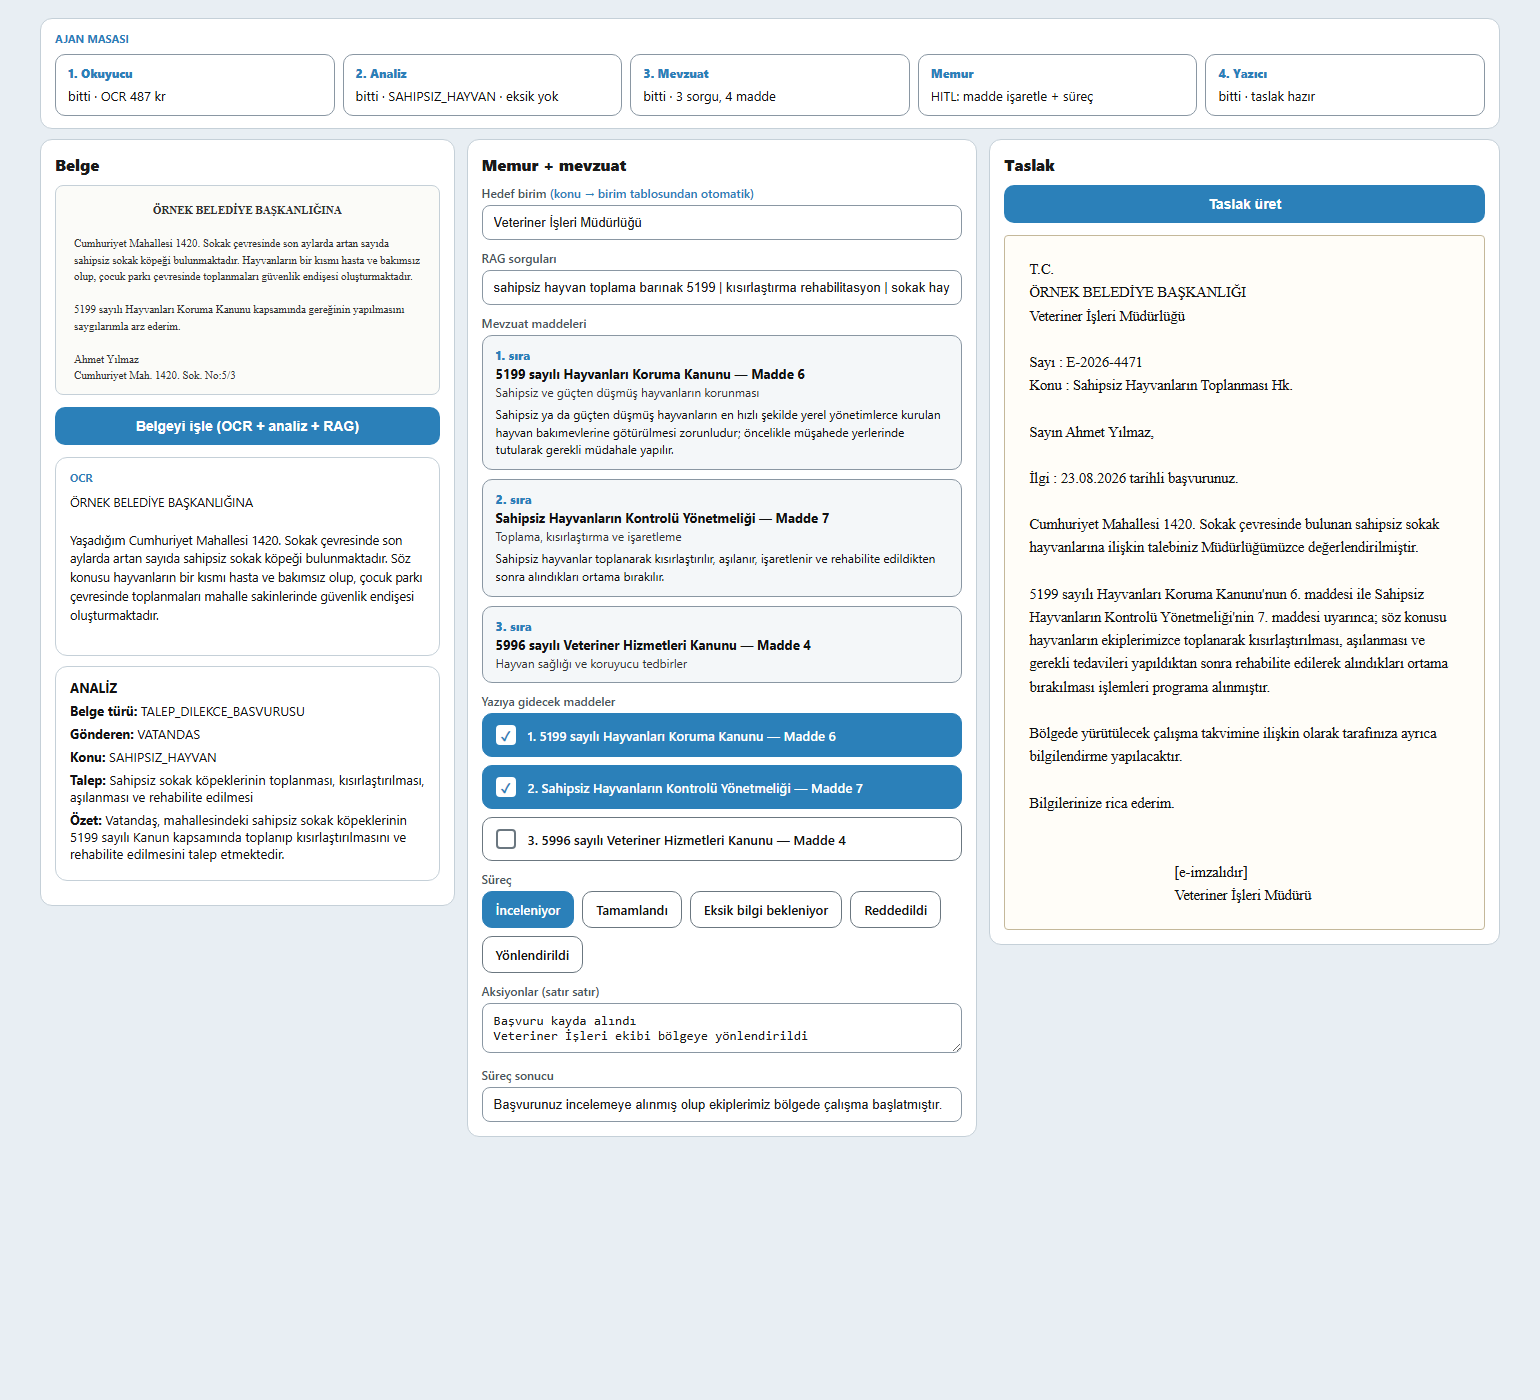
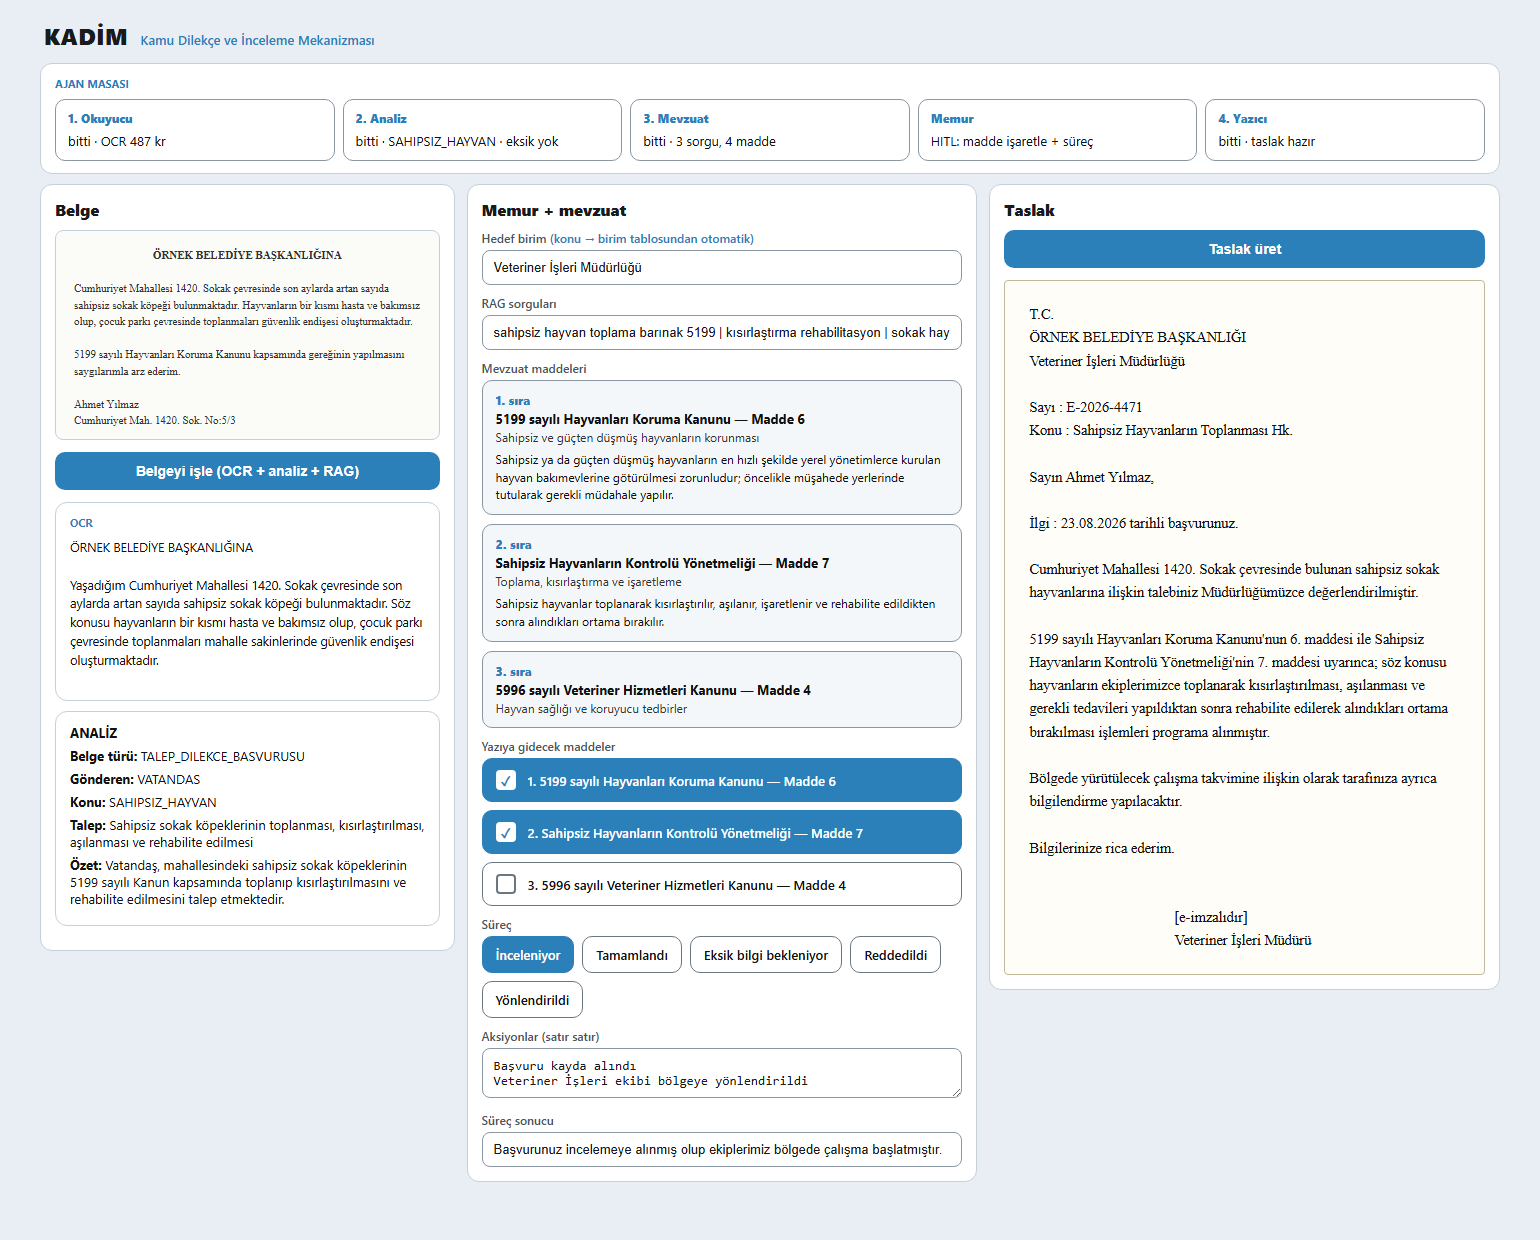
Arayüz başlığı ve ekran görüntüsü

Changed region(s): [[0.0312, 0.0, 0.9662, 0.95], [0.7481, 0.7355, 0.8416, 0.7661], [0.9351, 0.0613, 0.9662, 0.0919]]

diff --git a/docs/demo_onizleme_mock.html b/docs/demo_onizleme_mock.html
@@ -12,6 +12,9 @@
   * { box-sizing: border-box; }
   body { margin:0; background:#e8eef3; font-family:Inter,"Segoe UI",sans-serif; color:#1a1a1a; }
   .wrap { width:1500px; margin:0 auto; padding:18px 20px 30px; }
+  .apphead { display:flex; align-items:baseline; gap:12px; padding:2px 4px 12px; }
+  .brand { font-size:23px; font-weight:800; color:#1a1a1a; letter-spacing:.6px; }
+  .brandsub { font-size:13px; font-weight:600; color:#2b80b9; }
   .h { color:#2b80b9; font-weight:700; font-size:11px; margin-bottom:8px; }
   .card { background:#fff; border:1px solid #c5d0d8; border-radius:12px; padding:12px 14px; margin:0 0 10px; }
   .col { background:#fff; border:1px solid #c5d0d8; border-radius:12px; padding:14px; }
@@ -53,6 +56,12 @@
 </head>
 <body>
 <div class="wrap">
+
+  <!-- BASLIK -->
+  <div class="apphead">
+    <span class="brand">KADİM</span>
+    <span class="brandsub">Kamu Dilekçe ve İnceleme Mekanizması</span>
+  </div>
 
   <!-- ÜST: AJAN MASASI -->
   <div class="card">

diff --git a/app/src/gradio_app.py b/app/src/gradio_app.py
@@ -124,6 +124,12 @@ def agent_board_html() -> str:
     return _h("Ajan masası", row)
 
 
+APP_HEADER = (
+    '<div style="display:flex;align-items:baseline;gap:12px;padding:2px 4px 12px">'
+    '<div style="font-size:23px;font-weight:800;color:#1a1a1a;letter-spacing:.6px">KADİM</div>'
+    '<div style="font-size:13px;font-weight:600;color:#2b80b9">Kamu Dilekçe ve İnceleme Mekanizması</div>'
+    '</div>'
+)
 EMPTY_BOARD = agent_board_html()
 EMPTY_RAG = _h("Mevzuat", "Henüz yok. Belgeyi işle.")
 EMPTY_LETTER = (
@@ -525,6 +531,7 @@ except TypeError:
         demo_ctx = gr.Blocks(**_kw)
 
 with demo_ctx as demo:
+    gr.HTML(APP_HEADER)
     agent_md = gr.HTML(EMPTY_BOARD)
     st_ocr = gr.State("")
     st_analysis = gr.State(None)
